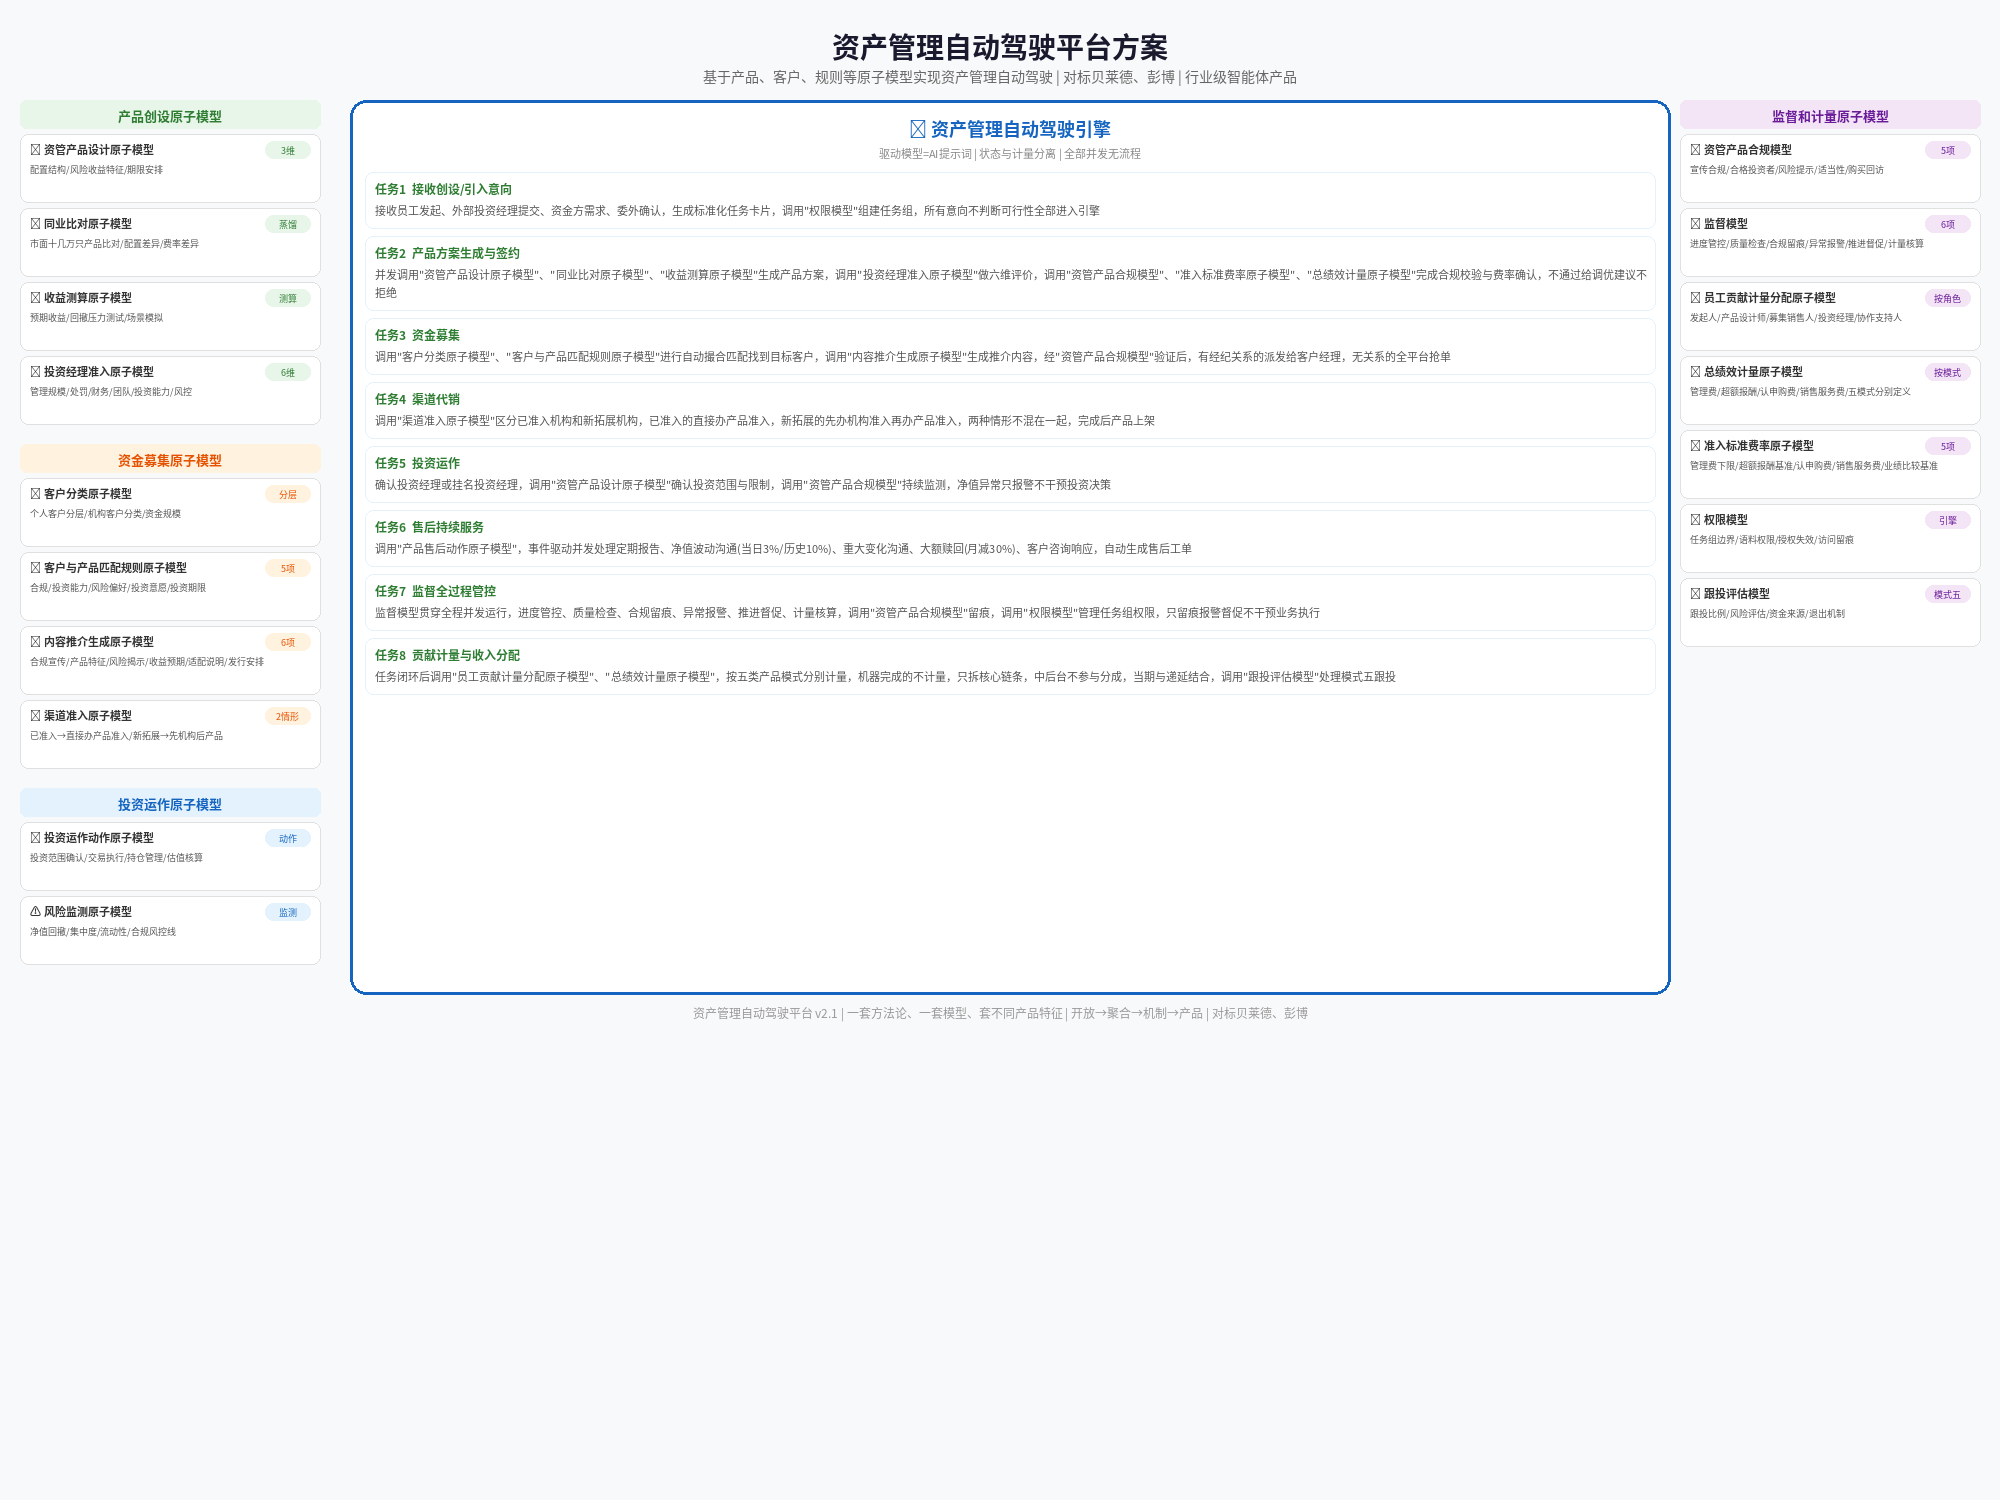
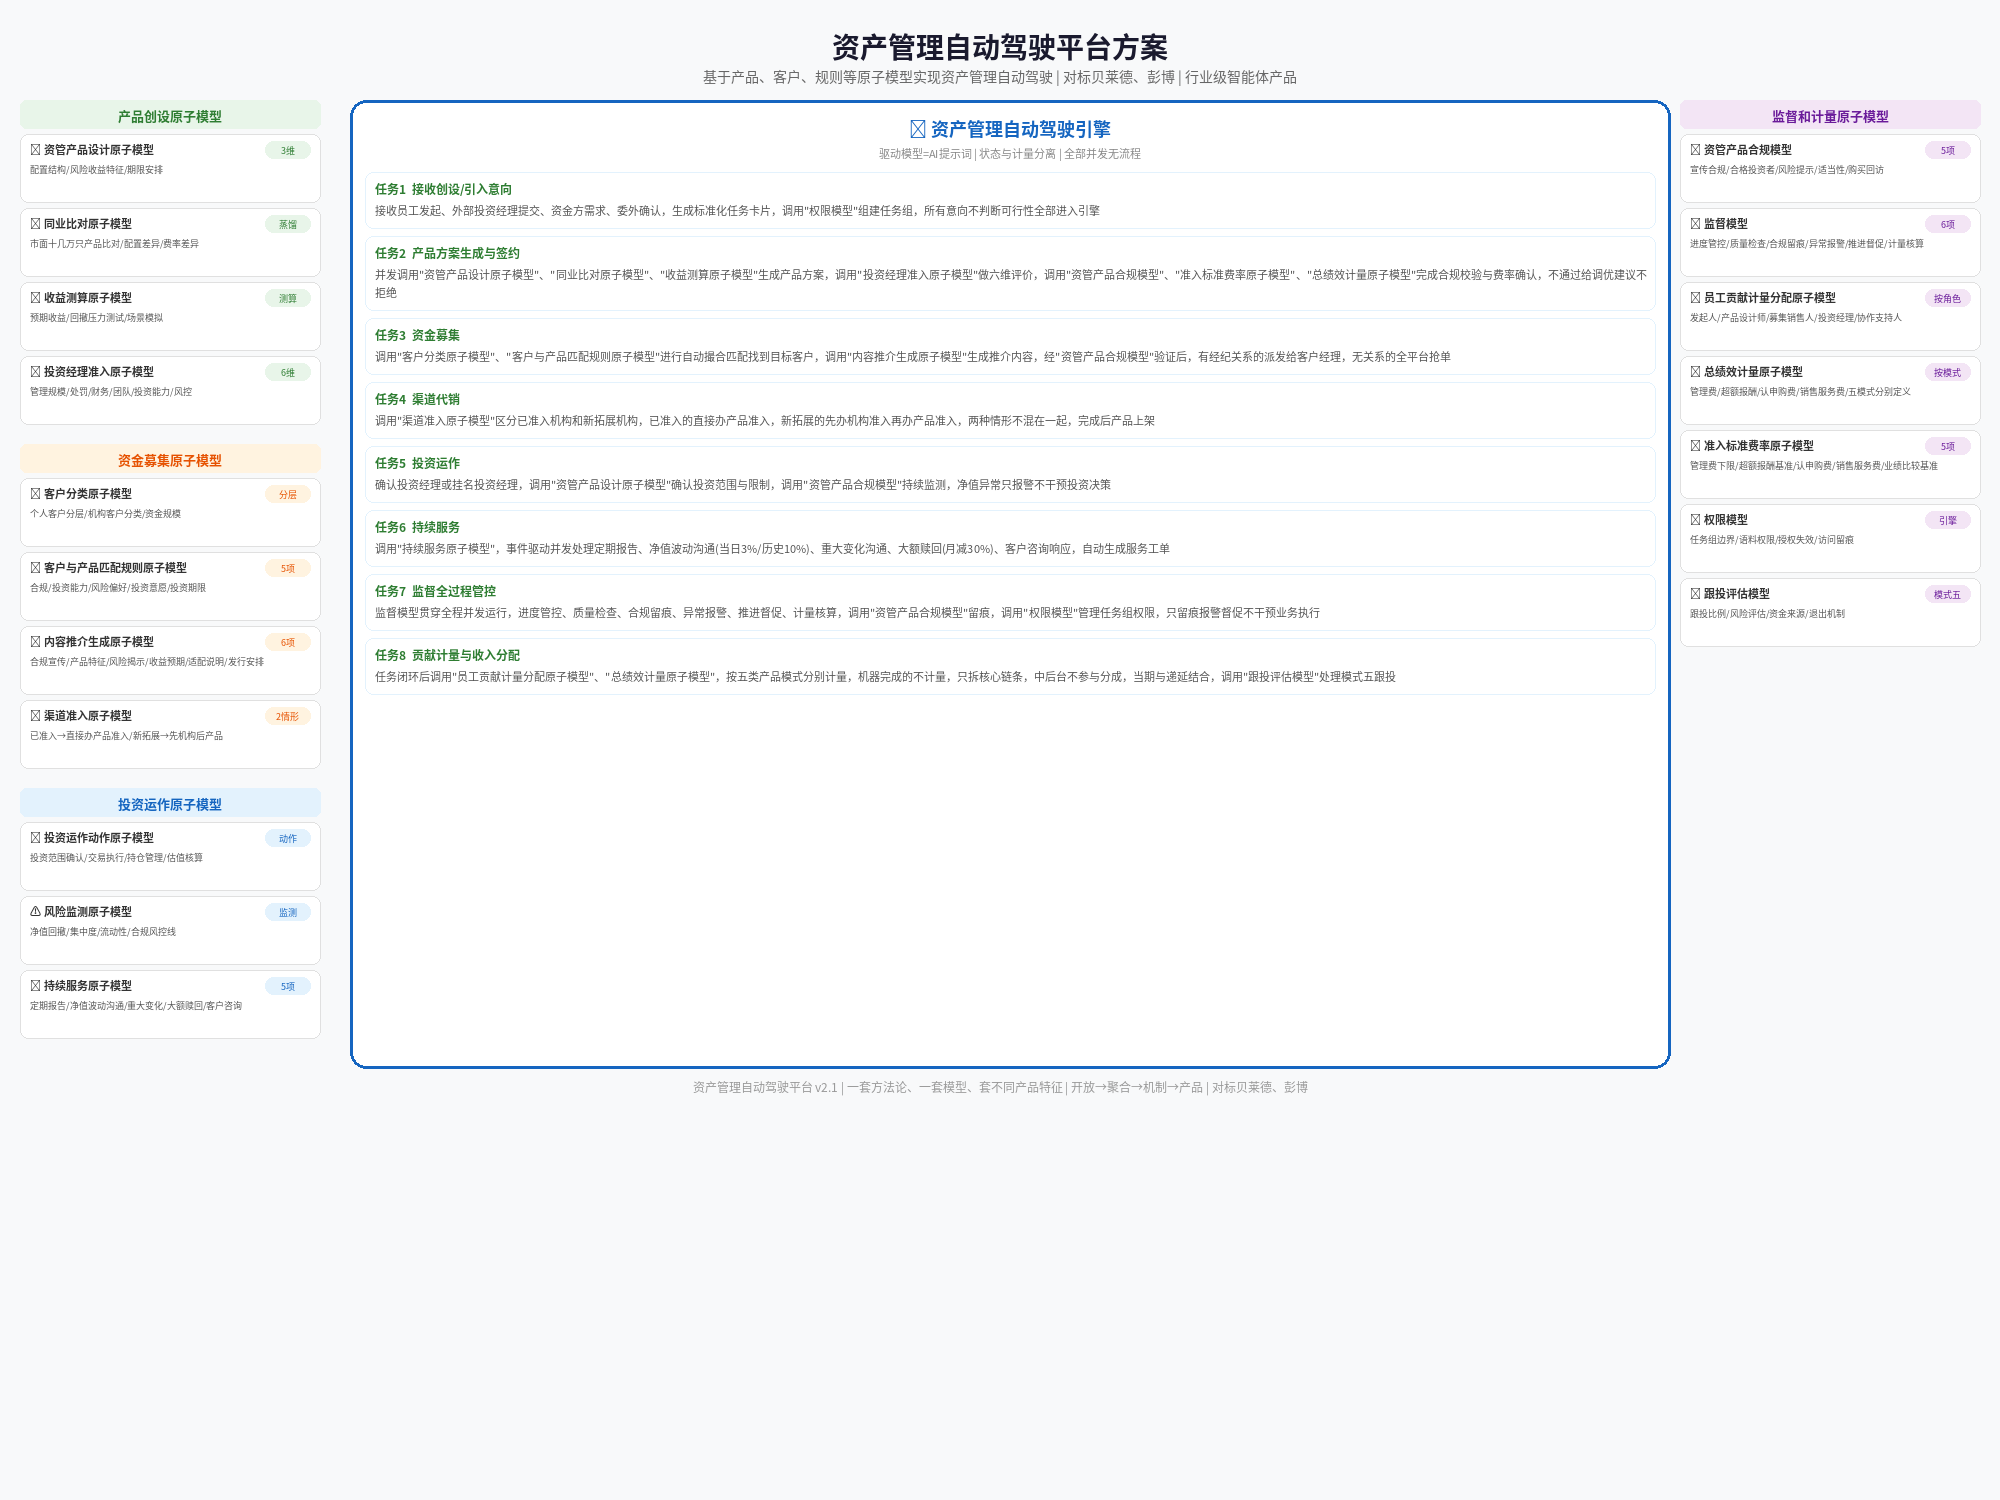
更新：去掉售后表述，持续服务归入投资运作，整体按产品创设/资金募集/投资运作/监督计量组织

diff --git a/diagrams/generate_asset_mgmt_diagram.py b/diagrams/generate_asset_mgmt_diagram.py
@@ -119,6 +119,7 @@ sections_left = [
         'models': [
             ('📋 投资运作动作原子模型', '动作', '投资范围确认/交易执行/持仓管理/估值核算'),
             ('⚠ 风险监测原子模型', '监测', '净值回撤/集中度/流动性/合规风控线'),
+            ('🔧 持续服务原子模型', '5项', '定期报告/净值波动沟通/重大变化/大额赎回/客户咨询'),
         ]
     },
 ]
@@ -215,8 +216,8 @@ tasks = [
      '调用"渠道准入原子模型"区分已准入机构和新拓展机构，已准入的直接办产品准入，新拓展的先办机构准入再办产品准入，两种情形不混在一起，完成后产品上架'),
     ('5', '投资运作',
      '确认投资经理或挂名投资经理，调用"资管产品设计原子模型"确认投资范围与限制，调用"资管产品合规模型"持续监测，净值异常只报警不干预投资决策'),
-    ('6', '售后持续服务',
-     '调用"产品售后动作原子模型"，事件驱动并发处理定期报告、净值波动沟通(当日3%/历史10%)、重大变化沟通、大额赎回(月减30%)、客户咨询响应，自动生成售后工单'),
+    ('6', '持续服务',
+     '调用"持续服务原子模型"，事件驱动并发处理定期报告、净值波动沟通(当日3%/历史10%)、重大变化沟通、大额赎回(月减30%)、客户咨询响应，自动生成服务工单'),
     ('7', '监督全过程管控',
      '监督模型贯穿全程并发运行，进度管控、质量检查、合规留痕、异常报警、推进督促、计量核算，调用"资管产品合规模型"留痕，调用"权限模型"管理任务组权限，只留痕报警督促不干预业务执行'),
     ('8', '贡献计量与收入分配',

diff --git a/资产管理自动驾驶平台设计方案 v2.1.md b/资产管理自动驾驶平台设计方案 v2.1.md
@@ -53,13 +53,23 @@
 | 资管产品总绩效计量原子模型 | 按产品类型 | 管理费/超额报酬/认申购费/销售服务费，按各模式分别定义 |
 | 资管产品准入标准费率原子模型 | 5项标准 | 管理费下限/超额报酬基准/认申购费/销售服务费/业绩比较基准 |
 
-### 售后与持续服务原子模型
+### 投资运作原子模型
 
 | 模型 | 维度数 | 核心内容 |
 |------|--------|---------|
-| 资管产品员工贡献计量分配原子模型 | 按角色 | 发起人/产品设计师/募集销售人/投资经理/协作支持人 |
-| 产品售后动作原子模型 | 5项动作 | 定期报告/净值波动沟通/重大变化沟通/大额赎回沟通/客户咨询响应 |
+| 投资运作动作原子模型 | 动作 | 投资范围确认/交易执行/持仓管理/估值核算 |
+| 风险监测原子模型 | 监测 | 净值回撤/集中度/流动性/合规风控线 |
+| 持续服务原子模型 | 5项动作 | 定期报告/净值波动沟通/重大变化沟通/大额赎回沟通/客户咨询响应 |
+
+### 监督和计量原子模型
+
+| 模型 | 维度数 | 核心内容 |
+|------|--------|---------|
+| 资管产品合规模型 | 5项合规 | 宣传合规/合格投资者/风险提示/适当性匹配/购买回访 |
 | 监督模型 | 6项监督 | 进度管控/质量检查/合规留痕/异常报警/推进督促/计量核算 |
+| 资管产品员工贡献计量分配原子模型 | 按角色 | 发起人/产品设计师/募集销售人/投资经理/协作支持人 |
+| 资管产品总绩效计量原子模型 | 按模式 | 管理费/超额报酬/认申购费/销售服务费/五种模式分别定义 |
+| 资管产品准入标准费率原子模型 | 5项标准 | 管理费下限/超额报酬基准/认申购费/销售服务费/业绩比较基准 |
 
 ### 引擎特有模型
 
@@ -86,8 +96,8 @@
 任务2  产品方案生成与签约
 任务3  资金募集启动
 任务4  渠道准入与产品上架
-任务5  产品投资运作启动
-任务6  售后持续服务
+任务5  投资运作
+任务6  持续服务
 任务7  监督全过程管控
 任务8  贡献计量与收入分配
 ```
@@ -253,7 +263,7 @@
 
 ---
 
-### 任务5：产品投资运作启动
+### 任务5：投资运作
 
 **触发条件**：产品成立、资金到位
 
@@ -290,20 +300,20 @@
 
 ---
 
-### 任务6：售后持续服务
+### 任务6：持续服务
 
 **触发条件**：产品运行期间，定期或事件驱动
 
 **提示词**：
 
 ```
-你是资产管理自动驾驶引擎的售后服务模块。
+你是资产管理自动驾驶引擎的持续服务模块。
 
-以下事件均可独立触发售后任务，事件之间并发：
+以下事件均可独立触发服务任务，事件之间并发：
 
 事件A——定期触发：
 按产品频率（日/周/月/季）自动生成定期报告，
-分派给售后人员执行客户沟通。
+分派给服务人员执行客户沟通。
 
 事件B——净值波动：
 单日净值波动超过3%或历史回撤超过10%，
@@ -320,15 +330,15 @@
 
 事件E——客户主动咨询：
 客户通过任意渠道发起咨询，
-自动分派给对应客户经理或售后人员。
+自动分派给对应客户经理或服务人员。
 
 输出：
-- 售后工单（含优先级和时效要求）
+- 服务工单（含优先级和时效要求）
 - 客户沟通记录
 - 异常情况升级标记
 ```
 
-**调用原子模型**：产品售后动作原子模型、资管产品合规模型
+**调用原子模型**：持续服务原子模型、资管产品合规模型
 
 **协同关系**：接收任务3、任务5输出 → 输出到任务8
 
